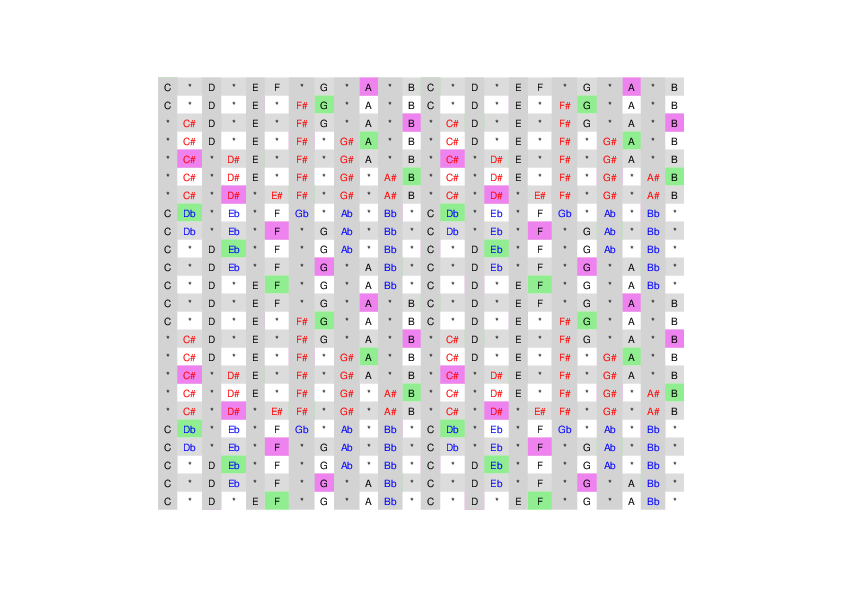
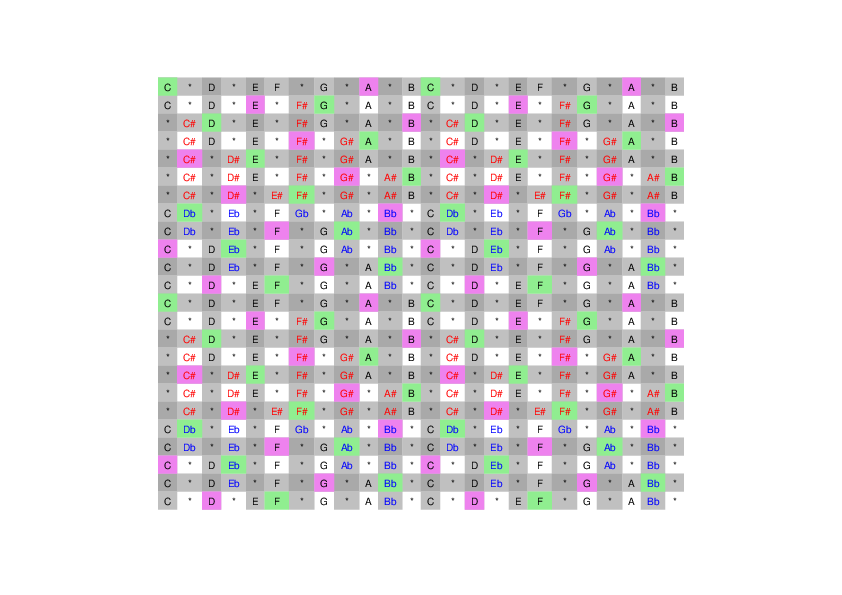
update alternatve row / column code

Changed region(s): [[0.1853, 0.121, 0.8337, 0.8773]]

diff --git a/scale.py b/scale.py
@@ -77,8 +77,16 @@ def repeat(n, f, x):
     return r
 
 
-
 style = TableStyle()
+style.add('ALIGN', (0, 0), (-1, -1), 'CENTER')
+for col in range(0, 24):
+    for row in range(0, 24):
+        if col % 2 == row % 2 == 0:
+            style.add('BACKGROUND', (col, row), (col, row), colors.darkgrey)
+        elif col % 2 == 0 or row % 2 == 0:
+            style.add('BACKGROUND', (col, row), (col, row), colors.silver)
+
+
 
 rows = []
 circle_of_fifths = [repeat(i, fifth, 0) for i in range(12)]
@@ -86,9 +94,6 @@ for repeat in (0, 1):
     for i, x in enumerate(circle_of_fifths):
         row_num = i + 12 * repeat
         del i
-
-        if row_num % 2 == 0:
-            style.add('BACKGROUND', (0, row_num), (-1, row_num), colors.gainsboro)
 
         if x == 6:
             row = ['', 'C#', '', 'D#', '',  'E#', 'F#', '', 'G#', '', 'A#', 'B']
@@ -116,12 +121,9 @@ for repeat in (0, 1):
         rows.append(double_row)
 
 
-for col in range(0, 24, 2):
-    style.add('BACKGROUND', (col, 0), (col, -1), colors.lightgrey)
 
 
 
-style.add('ALIGN', (0, 0), (-1, -1), 'CENTER')
 
 
 
